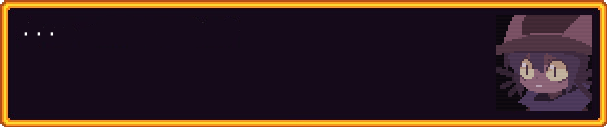
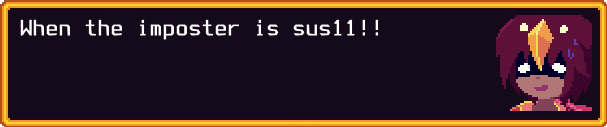
Updated text shrinking

Changed region(s): [[0.8007, 0.1181, 0.9786, 0.874], [0.0297, 0.1417, 0.6227, 0.3071]]

diff --git a/functions.py b/functions.py
@@ -15,7 +15,7 @@ def percentgen(num1, num2):
 # \/ copied from https://levelup.gitconnected.com/how-to-properly-calculate-text-size-in-pil-images-17a2cc6f51fd \/
 def get_text_dimensions(text_string, font):
     try:
-      print(text_string)
+      #print(text_string)
       text_string = str(text_string)
       # https://stackoverflow.com/a/46220683/9263761
       ascent, descent = font.getmetrics()
@@ -27,21 +27,20 @@ def get_text_dimensions(text_string, font):
     except:
       return(0, 0)
 
+# function to wrap characters individually, will cut words in two
 def bettertextwrap(text, size):
   text = text.replace('\n', '')
-  font = ImageFont.truetype('/home/runner/Nikomaker/Font/Terminus (TTF) Bold 700.ttf', 25)
-  font = font
+  font = ImageFont.truetype('/home/runner/Nikomaker-tester/Font/Terminus (TTF) Bold 700.ttf', 25)
   currentsize = 0
   outlist = []
+  # define variables, import the font, remove newlines in input
   for i in range(len(text)):
-    #try:
       try:
         width, height = get_text_dimensions(text[i], font)
         currentsize, x = get_text_dimensions(text[:i], font)
         currentsize -= 7
-        print(f'Width: {width}, Height: {height}, Current size: {currentsize}, Max size: {size}')
+        # -7 to let size be a nice, easily computed number
       except Exception as e: 
-        #print(e)
         pass
       try:
         width, height = get_text_dimensions(text[i], font)
@@ -49,54 +48,46 @@ def bettertextwrap(text, size):
         pass
       if currentsize > size:
         outlist.append(text[:i-1])
-        print(f'--------------------------\nline reset Current size: {currentsize}, Text so far: {outlist}\n--------------------------')
         text = text[i-1:]
         currentsize = 0
         size = 400
-    #except:
-      #pass
+        # reset values when list entry is added, not sure on why I added size = 400, looks ugly will clean up later
   outlist.append(text)
   return(outlist)
 
+# function to create a textbox using above functions. Outputs PIL image
 def maketextbox(text, expression, wrap=35):
   fontsize = 25
-  if len(text) > 100:
-    percent = percentgen(100, len(text))
-    fontsize = math.floor((fontsize*percent)*(2))
-    wrap = round((wrap/(percent)*1.3)/2)
-  if fontsize > 25:
-    fontsize = 25
-  font = ImageFont.truetype('/home/runner/Nikomaker/Font/Terminus (TTF) Bold 700.ttf', fontsize)
+  font = ImageFont.truetype('/home/runner/Nikomaker-tester/Font/Terminus (TTF) Bold 700.ttf', fontsize)
   # load the font, you can remove Bold and change 700 to 500 for non bold text. 35 is the font size.
   text_width, text_height = get_text_dimensions(text, font)
   #text = textwrap.wrap(text, width=wrap, break_long_words=True)
-  text = textwrap(text, 400)
+  
+  # Rewriting this logic. New logic: Check if vertical size is greater than textbox size (magic numbers will be used I'm sorry), if yes, find how much bigger it is (divide by textbox size) then divide the font scale by the result.
+  originaltext = text
+  text = textwrap(text, 400, fontsize)
+  height = len(text)*((26*fontsize)/25)
+  print(height, len(text))
+  if height > 100:
+    
+    incsize = (height/100)
+    fontsize = math.floor((fontsize / (incsize))*math.sqrt(height/100))
+    print(fontsize, incsize)
+    font = ImageFont.truetype('/home/runner/Nikomaker-tester/Font/Terminus (TTF) Bold 700.ttf', fontsize)
+    text = textwrap(originaltext, 400, fontsize)
+    print(math.sqrt(height/100))
+    # im so sorry ^
+  # 21 is the default character height for this font, 25 is the default font size.
   # Wraps the text, lowering width wraps it earlier, increasing it wraps it later
   textbox = Image.open('Textbox.png').convert('RGBA')
   editbox = ImageDraw.Draw(textbox)
-  newlinecount = len(text)+1
   text = '\n'.join(text)
   text_width, text_height = get_text_dimensions(text, font)
-  
-  
-  if newlinecount > 5:
-    img = Image.new('RGBA', ((450, text_height*newlinecount)), (255, 0, 0, 0))
-    imgedit = ImageDraw.Draw(img)
-    imgedit.text((0, 0), text, font=font, fill=(255, 255, 255))
-    img.save('drafts/unshifttextimg.png', 'PNG')
-    img = img.resize((500, 100), Image.ANTIALIAS)
-    textbox.paste(img, (20, 15), img)
-    img.save('drafts/textimg.png', 'PNG')
-
-  else:
-    # Wraps the text, lowering width wraps it earlier, increasing it wraps it later
-    textbox = Image.open('Textbox.png').convert('RGBA')
-    editbox = ImageDraw.Draw(textbox)
-    editbox.text((20, 15), text, font=font, fill=(255, 255, 255))
-    nikoimgface = Image.open(f'/home/runner/Nikomaker/Niko_expressions/{expression}').convert('RGBA')
-    nikoimgface = nikoimgface.resize((96, 96))
+  editbox.text((20, 15), text, font=font, fill=(255, 255, 255))
+  nikoimgface = Image.open(f'/home/runner/Nikomaker-tester/Niko_expressions/{expression}').convert('RGBA')
+  nikoimgface = nikoimgface.resize((96, 96))
     
-  nikoimgface = Image.open(f'/home/runner/Nikomaker/Niko_expressions/{expression}').convert('RGBA')
+  nikoimgface = Image.open(f'/home/runner/Nikomaker-tester/Niko_expressions/{expression}').convert('RGBA')
   nikoimgface = nikoimgface.resize((96, 96))
   textbox.paste(nikoimgface, (496, 15), nikoimgface)
   return(textbox)
@@ -137,11 +128,18 @@ def entitytoworldmachine(directory):
 def makeanimatedtextbox(text, expression):
   frames = []
   durations = []
+  progressbar = "[□□□□□□□□□□□]"
   for i in range(len(text)):
+    if i % (len(text)/11) == 0:
+      progressbar = progressbar.replace(">", "■", 1)
+      progressbar = progressbar.replace("□", ">", 1)
+      print(text+progressbar, end = "\r")
+      os.system('clear')
     try:
       new_frame = maketextbox(text[:i], expression, 35)
       frames.append(new_frame)
-    except:
+    except Exception as e:
+      print(e)
       pass
   frames.append(maketextbox(text, expression))
   for i in frames:
@@ -162,10 +160,9 @@ def createflasksite():
   if __name__ == '__main__':
     app.run(host='0.0.0.0')
 
-def textwrap(text, size):
+def textwrap(text, size, fontsize=25):
   text = text.replace('\n', '')
-  fontsize = 25
-  font = ImageFont.truetype('/home/runner/Nikomaker/Font/Terminus (TTF) Bold 700.ttf', fontsize)
+  font = ImageFont.truetype('/home/runner/Nikomaker-tester/Font/Terminus (TTF) Bold 700.ttf', fontsize)
   text = text.split()
   outtext = ""
   newlinecount = 1
@@ -173,39 +170,37 @@ def textwrap(text, size):
   # removes newlines from the entered text, splits it into a list of words. Also loads the Oneshot font (Terminus (TTF) Bold 700)
   for i in enumerate(text):
     e = i[1]
-    print(e)
     successful = False
     breakcount = 0
     while not successful:
       if get_text_dimensions(e, font)[0] > size:
         outtext = outtext + ("\n".join(bettertextwrap(e, size)))
       if (get_text_dimensions(outtext, font)[0] + get_text_dimensions(e, font)[0]) < size:
-        print("1")
+        #print("1")
         if breakcount > 0:
-          print("a")
+          #print("a")
           while breakcount > 0:
             outtext = outtext+e[-breakcount]+" "
             breakcount -= 1
-            print("b")
+            #print("b")
           successful = True
-          print("c")
+          #print("c")
         else: 
           successful = True
           outtext = outtext+e+" "
         newlinecount += 1
       else:
-        print("2")
+        #print("2")
         outlist.append(outtext)
         outtext = ""
-        e = ""
         successful = False
-    print("\n".join(outlist))
+    #print("\n".join(outlist))
+  outlist.append(outtext)
   return(outlist)
   # Logic: Split text into list, check each value of list and make sure it is not larger than size, split off x letters to make it fit if needed. Iterate over list, check to ensure that sizeOf(string + new entry) is not larger than size, if it is larger add newline, if it is not append it.
 
 def terminaloutput(*args):
-  print('-----------------------------------------')
+  ('-----------------------------------------')
   for i in args:
-    print(i)
-  print('-----------------------------------------')
-
+    (i)
+  ('-----------------------------------------')
